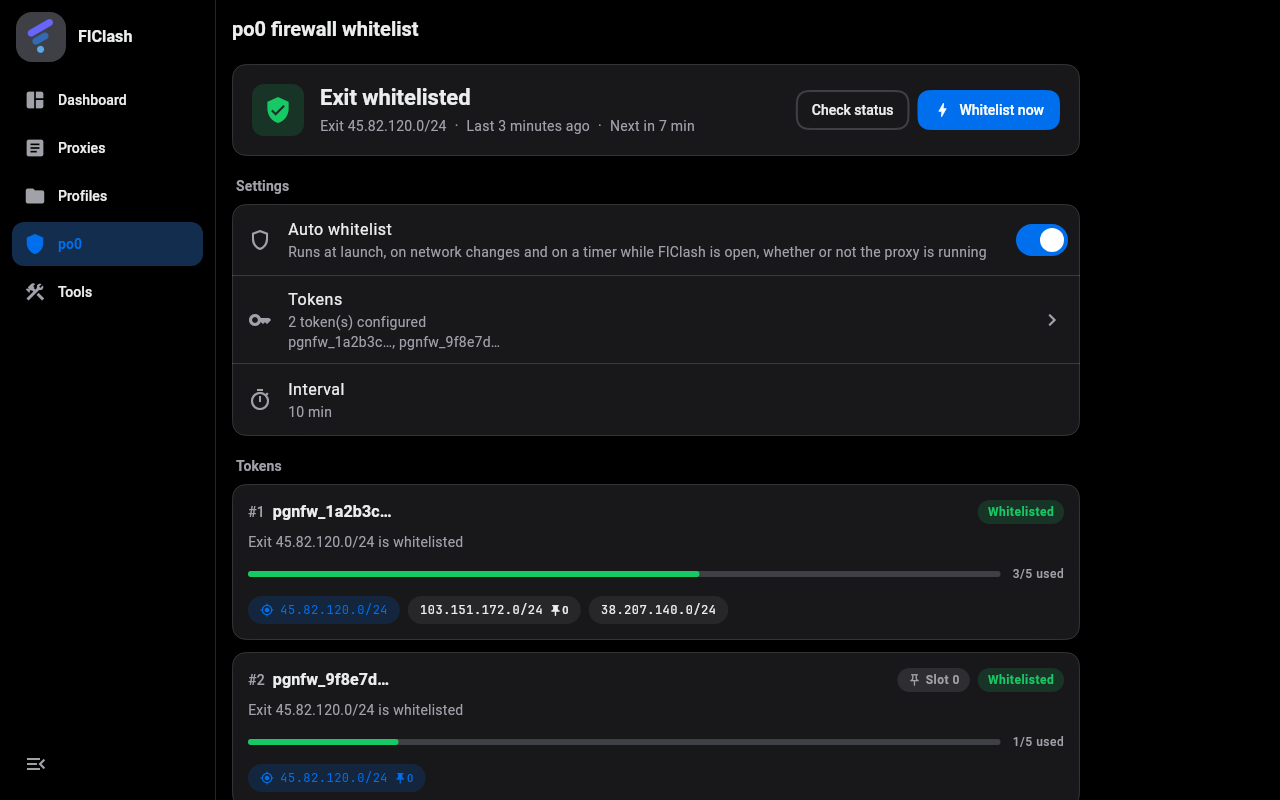
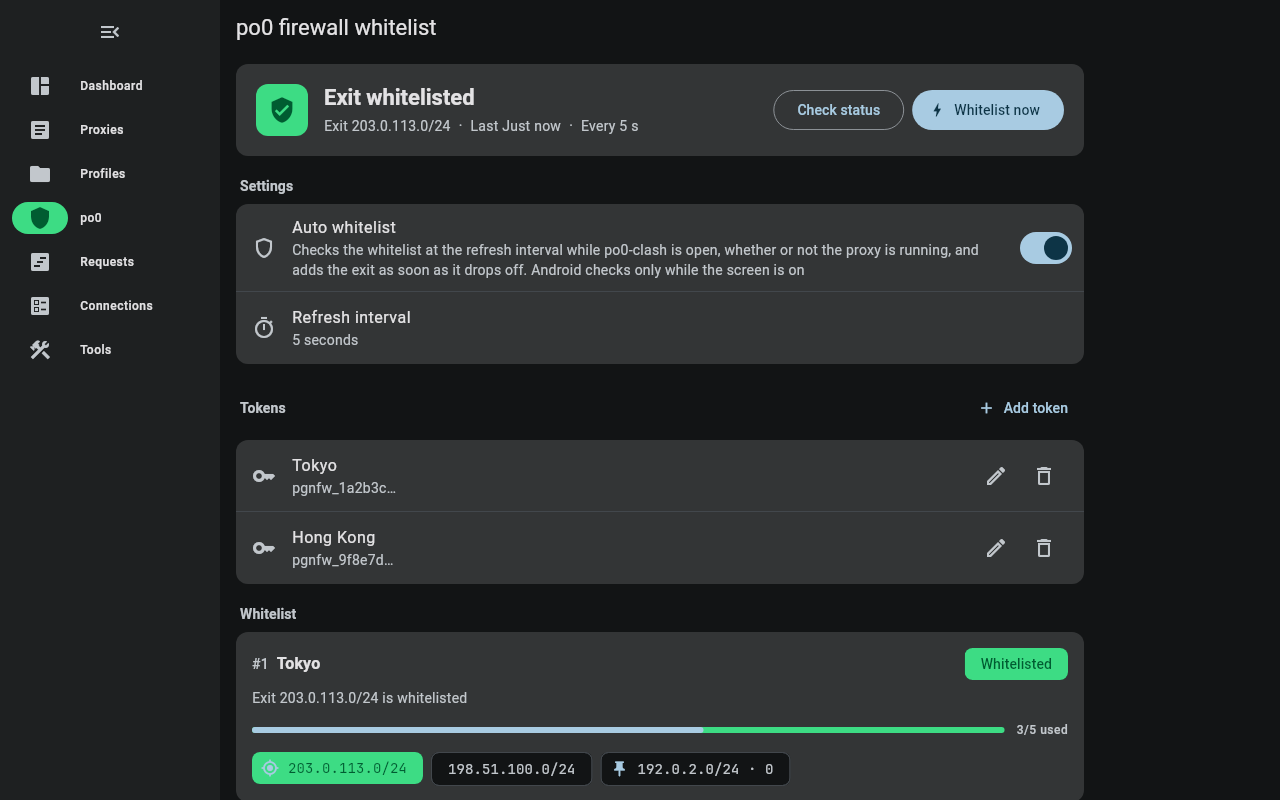
docs: describe the Material 3 UI and supersede the HeroUI ADR
ADR 0008 records the move to one Material 3 UI and supersedes ADR 0003.
docs/features/material3-ui.md replaces the HeroUI design notes with the
theme, shapes, navigation, transitions, motion rules and components.
The superellipse rule in .agents/rules.md and the ui-work skill become
the Material 3 shape and motion rules, the READMEs, goals and upstream
sync hotspots follow, and the po0 screenshots are rendered again while
the unreferenced dashboard and tools ones are dropped.

Changelog: skip

diff --git a/.agents/skills/ui-work/SKILL.md b/.agents/skills/ui-work/SKILL.md
@@ -12,7 +12,7 @@ Use this for user-facing Flutter UI changes in `lib/`, including widgets, screen
 ## Workflow
 
 1. Locate existing nearby widgets and reuse their patterns before adding new abstractions.
-2. Follow current Material You and Surfboard-like visual conventions.
+2. Follow Material 3 on every platform (`docs/features/material3-ui.md`); the look never branches on the platform.
 3. Use existing providers, notifiers, and helpers where possible.
 4. Keep `child:` last in widget constructors.
 5. Prefer `const` constructors and final locals.
@@ -30,67 +30,37 @@ Use this for user-facing Flutter UI changes in `lib/`, including widgets, screen
    flutter test test/widgets/
    ```
 
-## Corner Radii
+## Shapes
 
-All corner radii come from `lib/common/shape.dart`. Never write a radius literal in a widget.
+All corner radii come from `lib/common/shape.dart`. Never write a radius literal in a widget. The tokens are the
+Material 3 corner scale, and corners are plain rounded rectangles.
 
-The scale is picked by the component's **shortest side**, not by what looks good in isolation. A radius that reads as
-a soft card at 64 logical pixels tall reads as a pill at 24 and as a square at 400, so a single radius everywhere is
-the wrong kind of consistency.
-
-| Token | Value | Shortest side | Use |
-| --- | --- | --- | --- |
-| `none` | 0 | - | square edges, and the flat side of a grouped run |
-| `xs` | 4 | inset blocks | tiles clipped inside an already rounded surface |
-| `sm` | 8 | up to 48 | chips, thumbs, swatches, small square tiles |
-| `md` | 16 | up to 64 | interactive chrome: inputs, menus, buttons, popups, FAB |
-| `lg` | 20 | 64 to 180 | mid-size cards: dashboard tiles, proxy node cards |
-| `xl` | 24 | full-bleed | anything spanning the whole width: list rows, grouped runs, group headers |
-| `xxl` | 28 | over 200 | sheets, dialogs, full-screen containers |
-| `full` | 1000 | - | pills and circles: tracks, indicators, progress, avatars |
-
-`AppCorner.fit(shortestSide)` applies that table at runtime and is the right call whenever the size comes from a
-`LayoutBuilder` or scales with text size. It snaps to the largest token that stays at or under one third of the
-shortest side, which is the rule the table encodes.
+| Token | Value | Use |
+| --- | --- | --- |
+| `none` | 0 | square edges, and the flat side of a grouped run |
+| `extraSmall` | 4 | menus, text fields, snack-bar style messages, blocks inside a rounded surface |
+| `small` | 8 | chips, small badges, swatches |
+| `medium` | 12 | cards (`CommonCard` and `SurfaceCard` default), icon containers |
+| `large` | 16 | FABs, the inner edge of side sheets, the outer corners of a grouped run |
+| `largeIncreased` | 20 | reserved |
+| `extraLarge` | 28 | dialogs, bottom sheets, full-screen containers |
+| `full` | 1000 | pills and circles: indicators, progress, navigation selection |
 
 - `AppCorner` holds the scale as `double`, for `radius:` on `CommonCard` and for arithmetic.
 - `AppRadius` mirrors it as `BorderRadius`, plus `all`, `top`, and `vertical` builders.
-- `AppShape` mirrors it as `RoundedSuperellipseBorder`, plus `full` (stadium), `circle`, `input`, and the
-  `all`/`top`/`vertical`/`of` builders.
-- `ThemeData.withAppShapes` in `lib/application.dart` applies the scale to card, dialog, bottom sheet, snack bar,
-  chip, menu, input, FAB, navigation indicator, and progress themes. Do not restate those shapes at call sites; in
-  particular, leave `InputDecoration.border` unset so inputs inherit `AppShape.input`.
-
-The three tiers between `md` and `xxl` each answer to a different size class, and the split is what keeps one radius
-from being wrong for two of them.
-
-`xl` is for a surface that spans the full width. A wide, short strip needs a larger corner than its height alone
-suggests, or it stops reading as a card. Everything full-bleed shares this token and must stay on it:
-`CommonSelectedListItem`, the profiles card, the outer corners of a grouped run in `DecorationListItem`
-(`generateSectionV3`), and the proxy group header in `lib/views/proxies/list.dart`. The value is deliberately under
-half the height of a standard row, so nothing gets clamped and every one of them renders at the identical radius no
-matter which is taller. This is the one place the one-third rule is knowingly overshot; the width is what carries
-it, and `fit()` is not used here.
-
-`lg` is for the mid-size card that is not full-bleed: dashboard tiles and proxy node cards. It exists because `xl`
-does not fit all of them. A proxy node card's height follows the user's `ProxyCardType` setting, and at `min` it is
-only about 64 tall, which caps its radius at 21 — so `xl` would break on a setting the user can change at any time,
-while `lg` clears every one of the three heights. The same value has room to spare on the smallest dashboard tile,
-about 177x80, so both surfaces can hold one token instead of branching per size.
-
-Outlined inputs use `AppInputBorder`, not `ShapedInputBorder` from `package:material_ui`. That one subtracts the
-floating label's notch from the outline as a two-pixel band along the top edge, which assumes the label sits over a
-flat run of border. Any radius from 8 up puts the corner curve under the notch instead, the subtraction takes the
-corner with it, and the top edge is left drawn a pixel low. `AppInputBorder` clips the notch region away and paints
-the full superellipse through it, so the corner arc is truncated exactly where the notch begins. That is what
-Flutter's own `OutlineInputBorder` does by shortening the corner arc's sweep, which is why the framework border
-survives large radii and the package one does not. The border needs no `contentPadding` compensation; leave Material's
-defaults alone.
+- `AppShape` mirrors it as `RoundedRectangleBorder`, plus `full` (stadium), `circle`, `input`
+  (`OutlineInputBorder` on `extraSmall`), and the `all`/`top`/`vertical`/`of` builders.
+- Component shapes come from the theme's Material 3 defaults; `ThemeData.withAppShapes` only sets outlined text
+  fields and round progress ends. Do not restate component shapes at call sites, and leave `InputDecoration.border`
+  unset so inputs inherit `AppShape.input`.
 
 Nested radii are derived, never tokens. Concentric corners need `outer = inner + inset`, so name the inset and
-compute the outer value: `_cardRadius` in `lib/widgets/popup.dart`, `_kCornerRadius` in `lib/widgets/tab.dart`, and
-the selection ring in `lib/widgets/palette.dart` all do this. Adding an intermediate token to spell one of these out
-is what makes a scale grow without bound.
+compute the outer value, as the selection ring in `lib/widgets/palette.dart` does.
+
+## Motion
+
+Use `Durations.*` and `Easing.*` only; see `.agents/rules.md` ("Material 3 Shapes and Motion") and the transition
+table in `docs/features/material3-ui.md` for which pattern fits which change.
 
 ## Pitfalls
 

diff --git a/docs/features/material3-ui.md b/docs/features/material3-ui.md
@@ -1,0 +1,97 @@
+# Material 3 界面
+
+Android、Windows、macOS 使用同一套 Material 3 界面，遵循 [Android 设计指南](https://developer.android.com/design/ui)。
+决策记录见 [ADR 0008](../adr/0008-material3-on-every-platform.md)。
+
+| 桌面（浅色） | 桌面（深色） | 手机 |
+|---|---|---|
+| ![桌面浅色](images/ui_po0_light.png) | ![桌面深色](images/ui_po0_dark.png) | ![手机](images/ui_po0_mobile.png) |
+
+## 主题（`lib/common/app_theme.dart`）
+
+- `buildAppTheme` 构建 Material 3 `ThemeData`，颜色来自 `genColorSchemeProvider`：
+  - 用户选定的主题色，或系统种子色（Android 壁纸取色 / 桌面强调色）；
+  - 配色方案变体、纯黑模式在三端都生效。
+- 默认主题色是 Android 藏青 `#073042`（`androidBrandScheme`）：主要操作用藏青，选中态、容器用 Android 绿 `#3DDC84`，
+  仿照 Android 设计网站；配色方案变体默认 `fidelity`。5.0.0 保存的旧默认主题（灰粉色 + content）读取时自动迁移。
+- 模态弹窗、底部面板和侧边面板的背景统一使用 `ColorScheme.modalScrim`（scrim 32%），不做模糊。
+- 颜色只使用配色方案中的角色。Material 3 没有 success / warning 角色，po0 页面借用 primary、tertiary 两族。
+
+## 形状（`lib/common/shape.dart`）
+
+| 档位 | 值 | 典型用途 |
+|---|---|---|
+| `extraSmall` | 4 | 菜单、输入框、提示消息、分组内的小块 |
+| `small` | 8 | 标签、小徽章、色块 |
+| `medium` | 12 | 卡片（`CommonCard`、`SurfaceCard` 的默认值）、图标容器 |
+| `large` | 16 | FAB、侧边面板内侧、分组列表的外角 |
+| `largeIncreased` | 20 | 预留 |
+| `extraLarge` | 28 | 对话框、底部面板、全屏容器 |
+| `full` | 1000 | 胶囊与圆形：指示器、进度条、导航选中态 |
+
+- 形状都是普通圆角矩形（`RoundedRectangleBorder`、`ClipRRect`、`RRect`）。
+- 组件圆角交给主题默认值，不在调用处重复声明；`withAppShapes` 只设置两项：
+  - 输入框使用 `OutlineInputBorder`（extraSmall）；
+  - 进度条两端为圆头。
+
+## 导航（`lib/manager/app_manager.dart`、`lib/pages/home.dart`）
+
+| 窗口宽度 | `ViewMode` | 导航 |
+|---|---|---|
+| < 600 dp | `mobile` | 底部 `NavigationBar` |
+| 600～839 dp | `laptop` | 收起的 `NavigationRail`，标签在图标下方 |
+| ≥ 840 dp | `desktop` | `NavigationRail`，默认展开（标签在右侧，宽 220 dp），顶部菜单按钮切换收起 / 展开，状态保存在「显示标签」设置 |
+
+新安装默认使用简体中文，可在「语言」中改为跟随系统或其他语言。
+
+## 转场
+
+- **主页面切换**：fade through，共 300 ms（`Durations.medium2`）。
+  - 前 35%：旧页面以 standard accelerate 淡出，然后页面视图跳转；
+  - 后 65%：新页面以 emphasized decelerate 淡入，并从 92% 放大（`PageEntrance`）；
+  - 「选项卡动画」设置或系统「减少动画」关闭时，瞬间切换。
+- **推入页面**：`BaseNavigator.push` 使用 `MaterialPageRoute`，转场由 `appPageTransitionsTheme` 决定。
+  - Android：`PredictiveBackPageTransitionsBuilder`，跟随预测性返回手势。
+    清单中的 `android:enableOnBackInvokedCallback="true"` 是它的前提。
+  - 其他平台：`FadeForwardsPageTransitionsBuilder`。
+- **列表项展开为详情**：容器变换（`OpenContainer`），400 ms，emphasized 曲线。
+
+## 动效规则
+
+- **参数来源**：时长只取 `Durations.*`，曲线只取 `Easing.*`；emphasized 使用 `Curves.easeInOutCubicEmphasized`。
+  不使用回弹、弹簧或抖动。
+- **进入与退出**：进入用 decelerate，退出用 accelerate。
+  `CurvedAnimation.reverseCurve` 和 `AnimatedSwitcher.switchOutCurve` 在反向播放时直接套用曲线，
+  所以加速退出要写成 `Easing.xxxAccelerate.flipped`。
+- **按场景选择**：
+
+| 场景 | 做法 |
+|---|---|
+| 内容就地替换 | `FadeBox`：200 ms 交叉淡化，standard 曲线 |
+| 图标、按钮切换与卡片进入 | `FadeScaleBox` / `FadeScaleEnterBox`：Material 3 淡入缩放，进入 150 ms 在前 30% 淡入并从 80% 放大，退出 75 ms 淡出 |
+| 同一区域内容替换 | `FadeThroughBox`：fade through，300 ms |
+| 拖动 | 提升高度（阴影），不缩放 |
+
+- **减少动画**：系统开启「减少动画」时，`context.disableAnimations` 为真，入场与切换动画直接跳到终点。
+
+## 组件
+
+| 需求 | 组件 |
+|---|---|
+| 仪表盘出站模式切换 | `SegmentedButton` |
+| 更多菜单（含二级菜单） | `CommonPopupBox` → `MenuAnchor` + `MenuItemButton` / `SubmenuButton`；菜单项的动作在菜单关闭后的下一帧执行 |
+| 可点击 / 可删除 / 展示用标签 | `CommonChip` → `ActionChip` / `InputChip`；`MetaChip` → `Chip`（紧凑密度） |
+| 卡片 | `CommonCard`：描边卡片或填充卡片，圆角 12，选中为 secondaryContainer，键盘焦点显示主色描边 |
+| 分组面 | `SurfaceCard`：填充卡片（surfaceContainerHighest） |
+| 桌面侧边面板 | `showModalSideSheet`：surfaceContainerLow，内侧圆角 16 |
+
+桌面端遵循指针交互规范：悬停由组件自带的状态层表现；主题色块在右键时与长按一样进入删除模式。
+
+## 测试
+
+- `test/common/app_theme_test.dart`：主题、输入框与默认圆角。
+- `test/common/navigator_test.dart`：推入的路由与各平台转场。
+- `test/providers/state_derived_test.dart`：600 dp 边界。
+- `test/views/po0_firewall_view_test.dart`：`SurfaceCard`、`PageEntrance`。
+- `test/widgets/popup_test.dart`：菜单。
+- `test/widgets/animated_visibility_test.dart`：导航显隐的减速进入与加速退出。

diff --git a/docs/adr/0008-material3-on-every-platform.md b/docs/adr/0008-material3-on-every-platform.md
@@ -1,0 +1,47 @@
+# 0008. 三端统一使用 Material 3
+
+- 状态：已采纳
+- 日期：2026-09-29
+- 取代：[0003](0003-heroui-desktop-theme.md)
+
+## 背景
+
+[0003](0003-heroui-desktop-theme.md) 让 Windows、macOS 使用 HeroUI 风格的主题与侧边栏，Android 保持 Material。
+两套视觉语言带来了几个问题：
+
+- 桌面端的动态取色、配色方案变体、纯黑模式都不生效。
+- 组件和动效各写一份，维护成本翻倍。
+- 大量自绘组件与任何一套规范都不符：仿 Cupertino 的分段控件、自定义弹出菜单、手绘标签、带回弹的动画曲线、
+  编辑模式下的抖动。
+
+维护者决定三端统一遵循 [Android 设计指南](https://developer.android.com/design/ui)，也就是 Material 3。
+
+## 决定
+
+- **主题**：三端共用 `buildAppTheme`（`lib/common/app_theme.dart`），即种子配色的 Material 3 `ThemeData`。
+  模态弹窗与面板背后使用 32% 的 scrim（`ColorScheme.modalScrim`），不再模糊背景。
+  默认配色仿照 Android 设计网站：藏青 `#073042` 负责主要操作，Android 绿 `#3DDC84` 负责选中态，变体默认 `fidelity`。
+- **形状**：`AppCorner` / `AppRadius` / `AppShape` 使用 Material 3 的圆角档位，均为普通圆角矩形：
+  - extraSmall 4、small 8、medium 12、large 16、largeIncreased 20、extraLarge 28、full；
+  - 组件沿用 Material 3 默认圆角：卡片 12，菜单与输入框 4，对话框与底部面板 28，FAB 16。
+- **导航**：按窗口宽度分级。
+  - 小于 600 dp：底部导航栏；
+  - 600～839 dp：收起的导航侧栏；
+  - 840 dp 及以上：导航侧栏，顶部的菜单按钮可将其展开。
+- **转场**：
+  - 主页面切换使用 fade through，共 300 ms：前 35% 旧页面淡出，后 65% 新页面淡入并从 92% 放大。
+  - 推入页面：Android 使用预测性返回（`PredictiveBackPageTransitionsBuilder`，清单中开启
+    `enableOnBackInvokedCallback`）；其他平台使用它的回退效果 FadeForwards。
+- **组件**：`SegmentedButton`、`MenuAnchor`、`Chip` / `ActionChip` / `InputChip` 取代对应的自绘组件。
+- **动效**：
+  - 只使用 `Durations.*` 与 `Easing.*`；emphasized 曲线使用 `Curves.easeInOutCubicEmphasized`；不使用回弹曲线。
+  - 进入用减速曲线，退出用加速曲线；反向曲线需要 `.flipped`，退出才会真正加速。
+  - 遵守系统的「减少动画」设置。
+  - 拖动时通过提升高度来表现，不做缩放。
+
+## 后果
+
+- 桌面端外观变化较大，但动态取色等主题设置重新生效。
+- 删除了约五千行自绘主题、侧边栏与组件代码。
+- 界面层与上游 FlClash 的差异扩大：移植上游界面改动时，需要按本 ADR 调整形状、动效与组件。
+- `docs/features/images` 中的截图需要重新生成。

diff --git a/docs/development/upstream-sync.md b/docs/development/upstream-sync.md
@@ -25,17 +25,18 @@ git merge upstream/main
 | `lib/manager/app_manager.dart` / `connectivity_manager.dart` | 调度器启动、网络变化、回到前台、Android 亮屏 / 熄屏 |
 | `android/app/src/main/kotlin/com/follow/clash/MainActivity.kt` | 注册 `Po0ScreenPlugin` |
 | `lib/enum/enum.dart` / `lib/common/l10n_labels.dart` / `lib/views/navigation.dart` | `PageLabel.po0` 主导航入口 |
-| `lib/pages/home.dart` | 桌面页面切换的 `PageEntrance` 淡入 |
-| `lib/widgets/list.dart` | `generateSection` 在 HeroUI 下分组为卡片 |
-| `lib/widgets/sheet.dart` | HeroUI 侧边弹出页（遮罩、圆角、无模糊） |
+| `lib/pages/home.dart` | 主页面 fade through 切换（`PageEntrance`），去掉 `_NavigationBarDefaultsM3` |
+| `lib/widgets/sheet.dart` / `lib/common/dialog.dart` / `lib/widgets/list.dart` | 去掉模糊选项，模态背景用 Material 3 scrim；侧边面板样式 |
 | `lib/widgets/widgets.dart` | 导出 `surface_card.dart` |
 | `lib/common/constant.dart` | `repository` 指向本仓库，`upstreamRepository`；应用身份常量（见下节） |
 | `lib/common/package.dart` | `compareVersions` 按语义化版本比较（含预发布版本） |
 | `lib/common/request.dart` / `lib/views/about.dart` | 检查更新直接比较 `pubspec` 版本；「关于」页链接本仓库与上游 |
-| `lib/application.dart` | 主题改由 `buildAppTheme` 构建（HeroUI / Material 二选一） |
-| `lib/manager/app_manager.dart` | `AppSidebarContainer` 在 HeroUI 主题下改用 `HeroSidebar` |
-| `lib/widgets/card.dart` | `CommonCard` 的 HeroUI 圆角、环线、阴影与悬停 / 按压动效 |
-| `lib/common/common.dart` | 导出 `po0_firewall.dart`、`hero_theme.dart` |
+| `lib/application.dart` / `lib/common/app_theme.dart` | 主题由 `buildAppTheme` 构建，页面转场用 `appPageTransitionsTheme` |
+| `lib/manager/app_manager.dart` / `lib/common/layout.dart` | Material 3 导航侧栏（顶部菜单按钮、可展开）与窗口宽度分级 |
+| `lib/common/shape.dart` / `lib/widgets/card.dart` | Material 3 圆角档位；`CommonCard` 的描边 / 填充卡片样式 |
+| `lib/common/navigator.dart` | 推入页面改用 `MaterialPageRoute` |
+| `lib/widgets/popup.dart` / `chip.dart` / `fade_box.dart` / `super_grid.dart` | 换成 Material 3 组件与动效；删除 `tab*.dart` |
+| `lib/common/common.dart` | 导出 `po0_firewall.dart`、`app_theme.dart` |
 | `arb/intl_*.arb` | 新增的 `po0*`（含导航名 `po0Nav`）/ `minutesCount` 等文案 |
 | `.github/workflows/build.yaml` | 仅手动触发（本分支发版用 `release.yaml`） |
 | `README.md` / `README_zh_CN.md` | 整体改写为 po0-clash 说明，合并时保留本分支版本 |

diff --git a/.agents/rules.md b/.agents/rules.md
@@ -27,25 +27,23 @@ throw stays catchable as an `Exception` and carries a stack trace. Assert on it
 with `isA<MessageException>().having((e) => e.message, 'message', ...)`, not on a
 raw string.
 
-### Corner Radius
+### Material 3 Shapes and Motion
 
-Rounded corners are superellipses everywhere, not circular arcs. Use the superellipse API at each layer:
+Every platform follows Material 3 (`docs/adr/0008-material3-on-every-platform.md`,
+`docs/features/material3-ui.md`).
 
-- Shapes: `RoundedSuperellipseBorder` instead of `RoundedRectangleBorder`.
-- Clips: `ClipRSuperellipse` instead of `ClipRRect`.
-- Container decorations: `ShapeDecoration(shape: RoundedSuperellipseBorder(...))` instead of
-  `BoxDecoration(borderRadius: ...)`; borders move to the shape's `side`, and a `Container` with
-  `clipBehavior` still clips to the shape path.
-- Canvas: `canvas.drawRSuperellipse(RSuperellipse.fromRectAndRadius(...))` instead of `drawRRect`.
-
-Passing `BorderRadius.circular(x)` as the `borderRadius` argument of these APIs is expected — it only
-carries the corner magnitude; the rendered geometry stays a superellipse.
-
-APIs that accept only `BorderRadius` keep circular corners, with the superellipse supplied by an
-enclosing clip or shape where one is needed: `InkWell.borderRadius`, `OutlineInputBorder`,
-`ScrollbarThemeData.radius`, and `smooth_sheets`' `MaterialSheetDecoration`. Fully round pills
-(`BorderRadius.circular(999)` or half the shortest side) may stay circular — both geometries coincide
-there.
+- Corner radii come from the Material 3 scale in `lib/common/shape.dart` (`AppCorner`, `AppRadius`,
+  `AppShape`); never write a radius literal in a widget. Corners are circular: `RoundedRectangleBorder`,
+  `ClipRRect`, `BorderRadius` and `RRect`.
+- Component shapes are the theme's Material 3 defaults (cards 12, menus and text fields 4, dialogs and
+  sheets 28); do not restate them at call sites.
+- Durations come from `Durations.*` and curves from `Easing.*`, with `Curves.easeInOutCubicEmphasized`
+  for the full emphasized curve. No overshoot (`easeOutBack`, cubics past 1), springs or jiggle.
+- Enter on a decelerate curve and exit on an accelerate one. `CurvedAnimation.reverseCurve` and
+  `AnimatedSwitcher.switchOutCurve` apply the curve as given while the value falls, so an exit that
+  accelerates in time is `Easing.xxxAccelerate.flipped`.
+- Respect `context.disableAnimations`, and prefer stock Material 3 components (`SegmentedButton`,
+  `MenuAnchor`, chips) over hand-drawn ones.
 
 CI gates formatting: `dart format --output=none --set-exit-if-changed lib test
 tool plugins setup.dart` runs before `flutter analyze`.

diff --git a/README.md b/README.md
@@ -3,7 +3,7 @@
 [**简体中文**](README_zh_CN.md)
 
 A multi-platform proxy client based on [FlClash](https://github.com/chen08209/FlClash), with a built-in po0 firewall
-auto-whitelist (port of [po0fw](https://github.com/w0ven/po0fw)) and a HeroUI-style UI on Windows and macOS.
+auto-whitelist (port of [po0fw](https://github.com/w0ven/po0fw)) and one Material 3 UI on Android, Windows and macOS.
 
 po0-clash is a standalone app with its own app id, installer, process and service names and data directory, so it
 installs and runs side by side with official FlClash.
@@ -20,7 +20,8 @@ installs and runs side by side with official FlClash.
 - **po0 auto-whitelist**: add a `pgnfw_` token for each po0 machine. While the app is open it checks the whitelist at
   the refresh interval (5 seconds by default) and adds your exit IP as soon as it is missing, whether or not the proxy is
   on. The request always goes direct, so the real exit is whitelisted rather than the proxy's.
-- **HeroUI-style desktop UI**: grouped settings cards, page fades and sidebar motion.
+- **Material 3 on every platform**: the same Android-style design, navigation and motion on Android, Windows and macOS,
+  with dynamic color.
 - Everything FlClash already does: ClashMeta core, subscription import, WebDAV sync, dark mode and more.
 
 ## Install

diff --git a/.agents/fork.md b/.agents/fork.md
@@ -10,9 +10,9 @@ fork. Human-facing documentation lives in `docs/` (Chinese).
   `lib/providers/po0_firewall.dart`, `lib/views/po0_firewall.dart`. The page is a top-level navigation item
   (`PageLabel.po0`), not a Tools entry. Design: `docs/features/po0-firewall.md`, decision record:
   `docs/adr/0001-direct-routing-for-po0-api.md`.
-- HeroUI-style theme, sidebar, motion and grouped settings cards on desktop (Windows, macOS):
-  `docs/features/heroui-desktop.md`. Widgets decide the look from `HeroTheme.maybeOf(context)`, never from the
-  platform; `SurfaceCard` is the shared grouping surface.
+- One Material 3 UI on every platform, following Android's design guidance (ADR 0008, `docs/features/material3-ui.md`):
+  shapes from the Material 3 corner scale, navigation by window size class, and motion only from `Durations` and
+  `Easing`. Widgets never branch on the platform for their look.
 - Its own app identity (`docs/adr/0006-standalone-app-identity.md`): app id `io.github.yuuukicreation.po0clash`, executable
   and display name `po0-clash`, `Po0ClashCore` / `Po0ClashHelperService`, its own Inno Setup `AppId`, IPC names, data
   directory and `po0clash://` scheme. No Firebase.

diff --git a/docs/adr/README.md b/docs/adr/README.md
@@ -20,8 +20,9 @@
 |---|---|---|
 | [0001](0001-direct-routing-for-po0-api.md) | po0 API 请求的直连路由 | 已采纳 |
 | [0002](0002-build-infrastructure.md) | 构建基础设施：VPS + GitHub Actions | 已采纳，Android 构建与签名部分已取代（见 0006） |
-| [0003](0003-heroui-desktop-theme.md) | 桌面端 HeroUI 风格主题 | 已采纳 |
+| [0003](0003-heroui-desktop-theme.md) | 桌面端 HeroUI 风格主题 | 已取代（见 0008） |
 | [0004](0004-per-second-read-only-polling.md) | 每秒只读轮询白名单 | 已采纳，固定槽位部分已取代（见 0007） |
 | [0005](0005-token-list-and-poll-interval.md) | token 列表与可调刷新间隔 | 已采纳，固定槽位部分已取代（见 0007） |
 | [0006](0006-standalone-app-identity.md) | po0-clash 作为独立应用发布 | 已采纳 |
 | [0007](0007-remove-fixed-slots.md) | 去掉固定槽位 | 已采纳 |
+| [0008](0008-material3-on-every-platform.md) | 三端统一使用 Material 3 | 已采纳 |

diff --git a/docs/goal.md b/docs/goal.md
@@ -17,7 +17,7 @@
    - Android：提供 APK 安装包。
    - iOS：不支持，不做。
    - Linux：不在交付范围内（代码保持可构建即可）。
-5. **界面**：Windows 与 macOS 桌面端界面改为 HeroUI 风格；Android 保持原版 Material 界面。
+5. **界面**：三端统一遵循 Android 设计指南（Material 3），动效使用 Material 3 的时长与曲线（[ADR 0008](adr/0008-material3-on-every-platform.md)）。
 6. **独立应用**：以 po0-clash 的身份发布，应用 ID、安装标识、进程 / 服务名、数据目录与官方 FlClash 完全不同，
    两者可在同一设备上同时安装、运行；版本号独立，本仓库从 5.0.0 开始（[ADR 0006](adr/0006-standalone-app-identity.md)）。
 7. **工程化**：代码放在独立的 GitHub 仓库，及时推送；仓库包含 `AGENTS.md` 与 `docs/` 等标准流程结构；

diff --git a/AGENTS.md b/AGENTS.md
@@ -5,7 +5,7 @@ This file is the entry point for AI coding agents working in this repository. Ke
 
 ## Fork: po0-clash
 
-This is a fork of FlClash that adds the po0 firewall auto-whitelist and a HeroUI-style desktop UI, released as the
+This is a fork of FlClash that adds the po0 firewall auto-whitelist and one Material 3 UI on every platform, released as the
 standalone app po0-clash (its own app id, installer, process names and semver, installable side by side with FlClash).
 Read [.agents/fork.md](.agents/fork.md) first; project goals, feature designs, build/release process and ADRs are in
 [docs/](docs/README.md). Release builds run only when the maintainer explicitly asks for a release.
